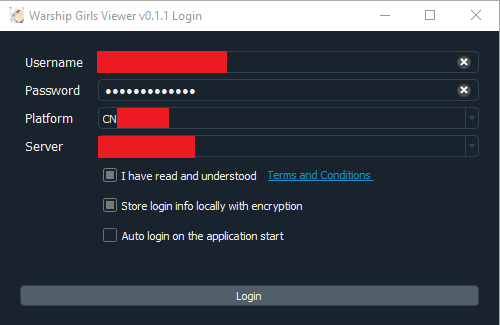
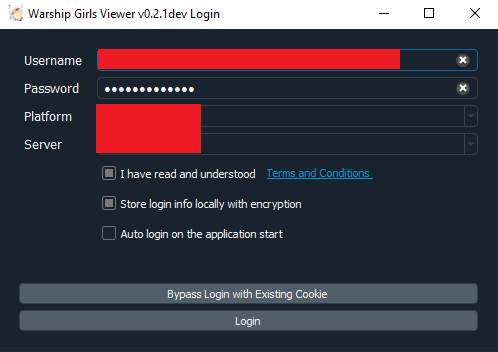
[docs] update screenshots; remove archive

diff --git a/README.md b/README.md
@@ -17,6 +17,14 @@ The idea is to hack the game and use its native APIs to mimic an official client
 
 The official sites of the mobile game, Warship Girls (R), are [here (CN)][CN], [here (JP)][JP] and [here (International)][Intl].
 
+## Features
+
+As of `v0.2.1dev`,
+
+- Auto sortie on Thermopylae Ex-6
+- Display all warships' statistics, with sorting & filtering
+- Display all user's docking/constructing/developing/tasking info on side panel
+
 ## Screenshots
 
 Please see [at this directory](screenshots). Updating as work progresses.

diff --git a/screenshots/README.md b/screenshots/README.md
@@ -1,0 +1,32 @@
+# Screenshots
+
+## Functional
+
+> user dock
+
+![alt text](./1_User_Dock_with_Side_Dock_On.png)
+
+> direct equip selection in user dock
+
+![alt text](./2_User_Dock_with_Equip_Window_On.png)
+
+> login page
+
+![alt text](./4_login_page.png)
+
+> Auto Thermopylae Ex-6
+
+![alt text](./5_Auto_E6.png)
+
+> settings page
+
+![alt text](./settings_page_game.PNG)
+
+> bright mode
+
+![alt text](./Native_Bright_Color_Scheme.png)
+
+
+## WIP
+
+![alt text](./3_Expedition_WIP.png)
